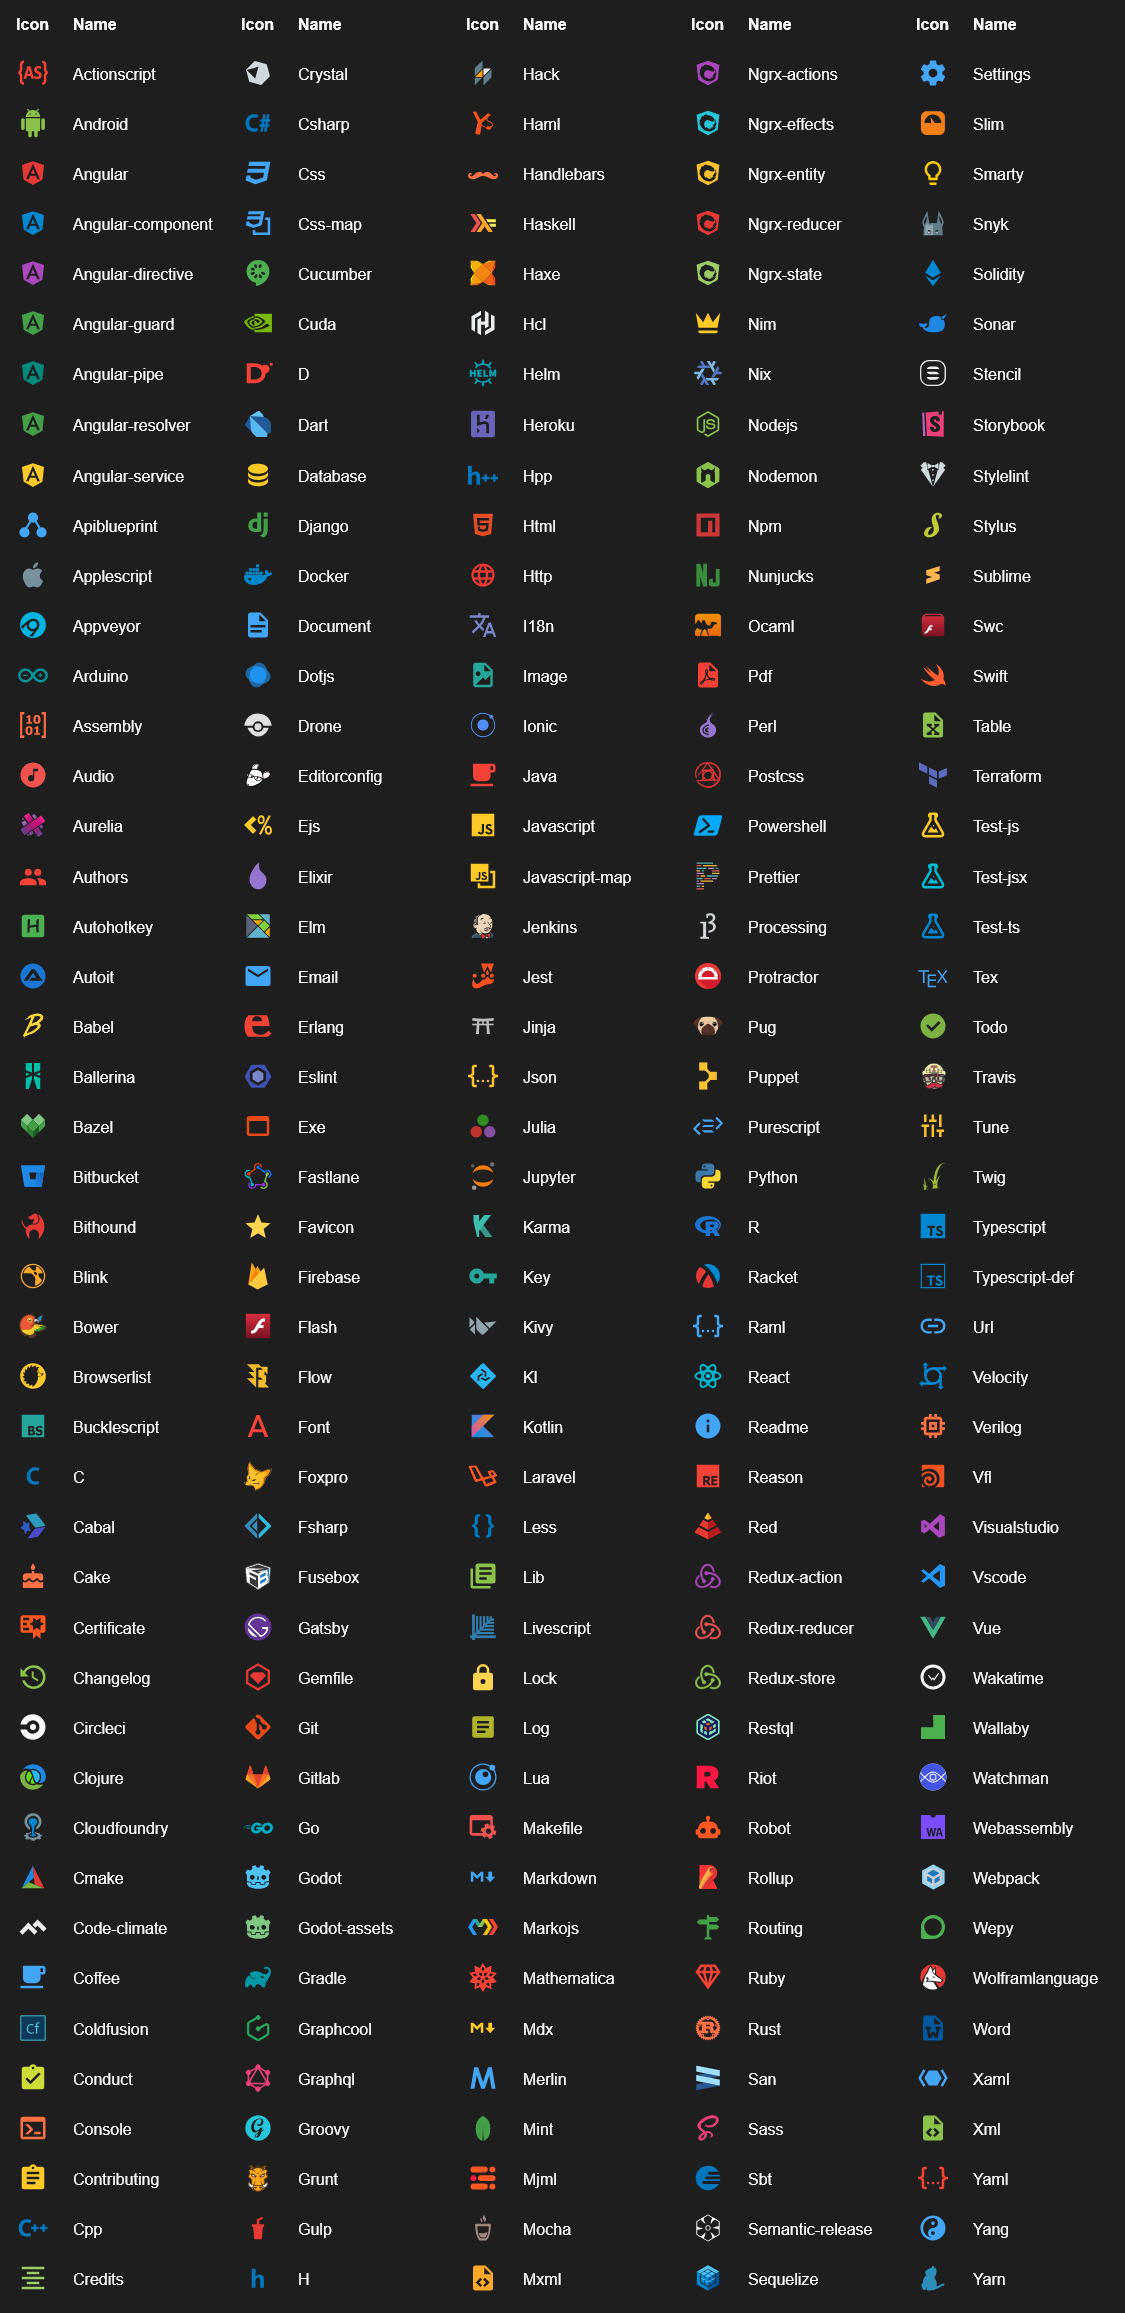
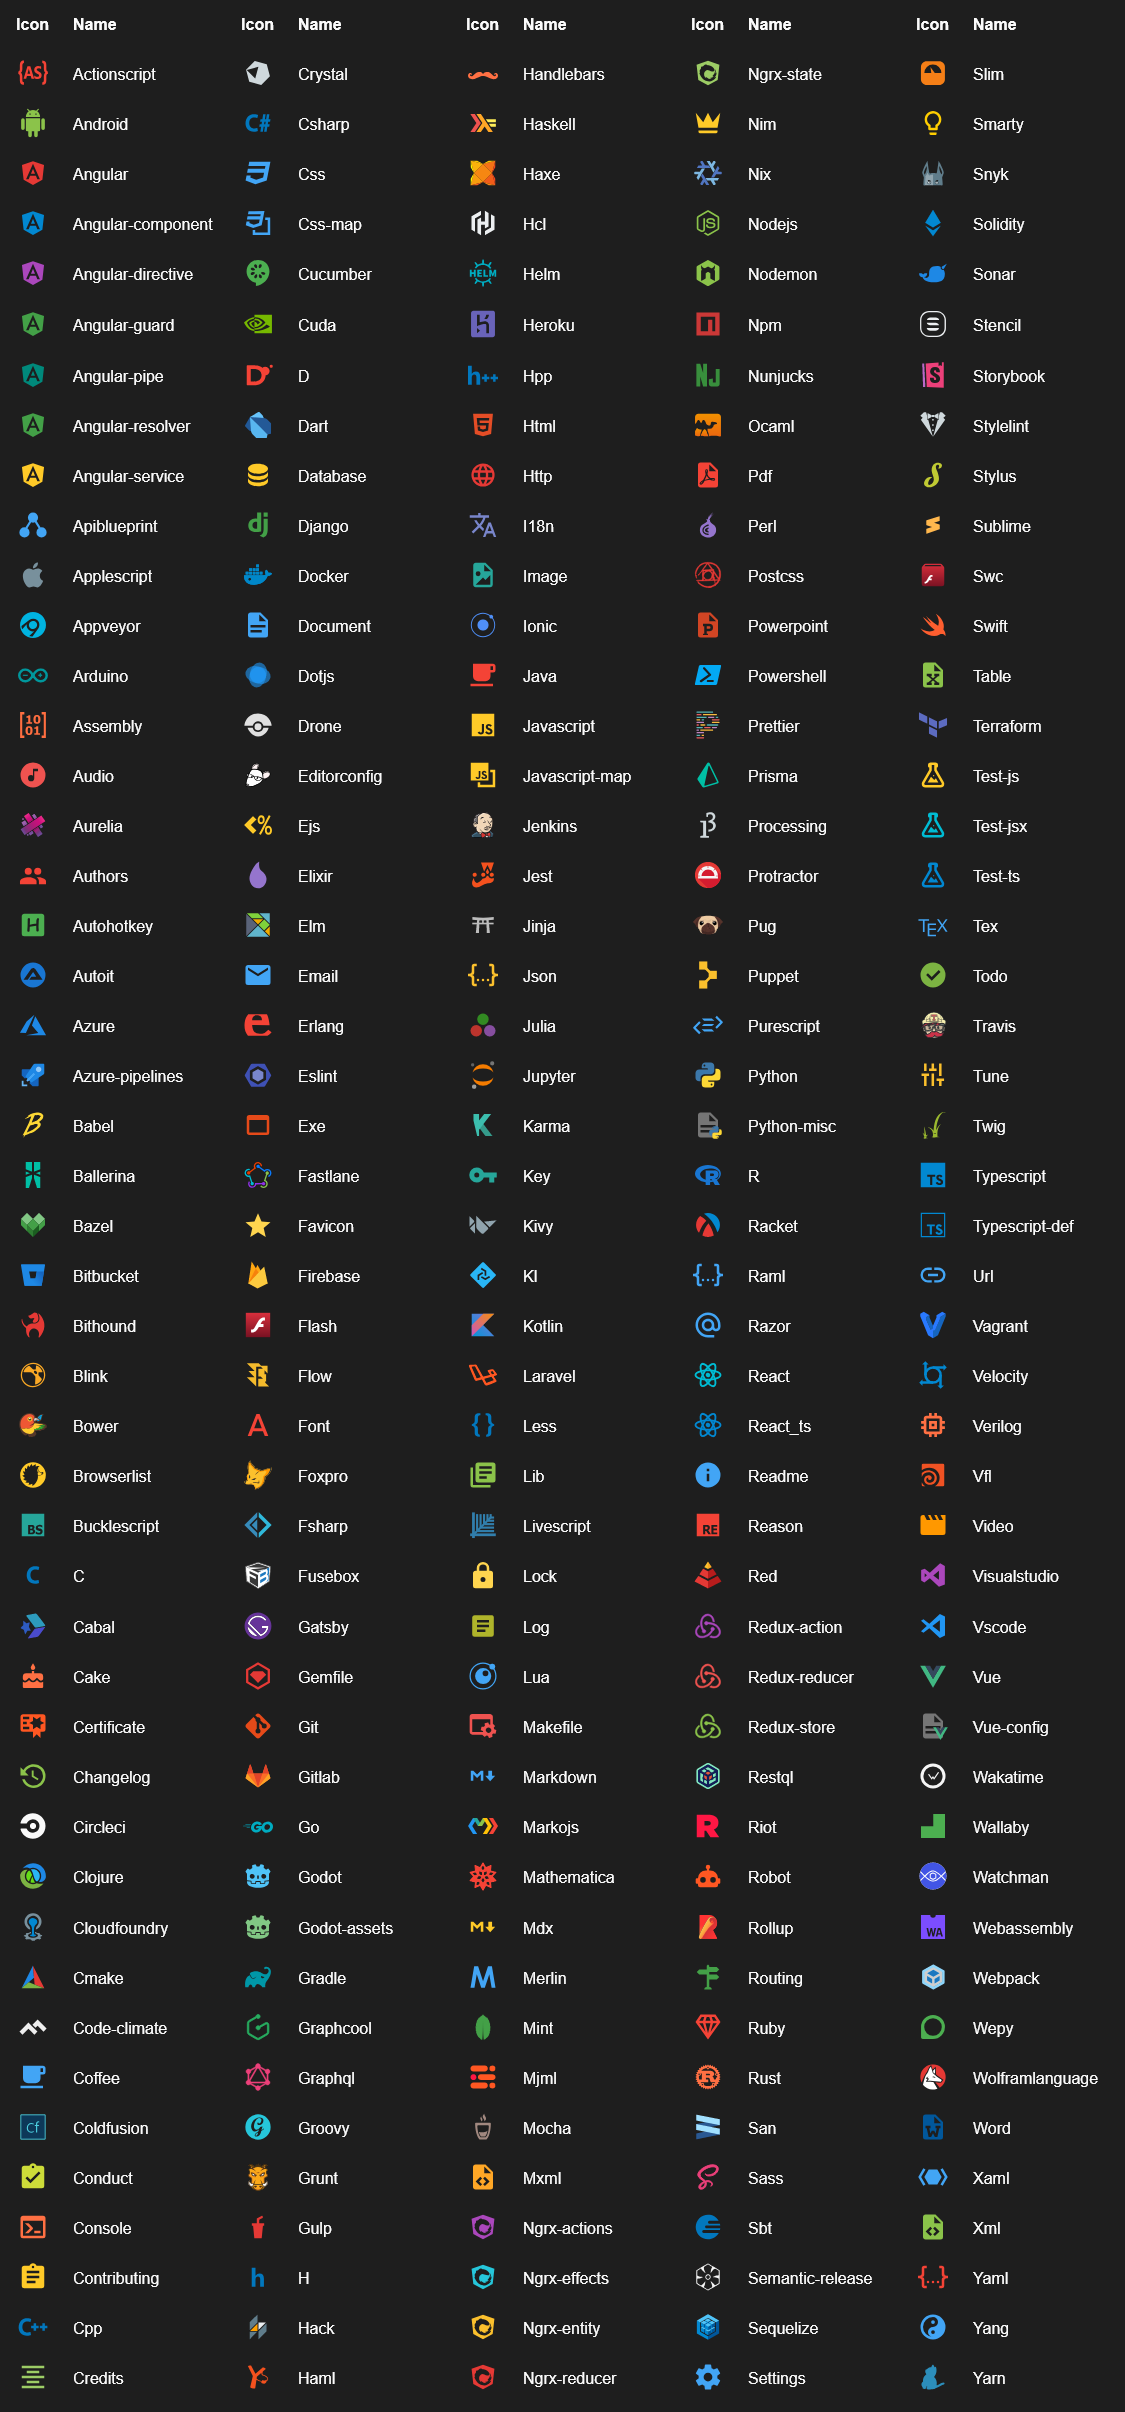
Release 3.6.1

diff --git a/scripts/preview/index.ts b/scripts/preview/index.ts
@@ -20,5 +20,5 @@ const folderThemes = filterDuplicates(folderIcons.map(theme => {
     return [].concat(...folders);
 }).reduce((a, b) => a.concat(b))).map(i => ({ iconName: i, label: i.replace('folder-', '') }));
 
-generatePreview('fileIcons', basicFileIcons, 5, ['virtual', 'video', 'powerpoint']);
+generatePreview('fileIcons', basicFileIcons, 5, ['virtual']);
 generatePreview('folderIcons', folderThemes, 5, ['folder', 'folder-ansible', 'folder-expo']);

diff --git a/CHANGELOG.md b/CHANGELOG.md
@@ -1,4 +1,27 @@
 # Changelog
+## 3.6.1 (2018-11-21)
+### New file icons
+- .env ([issue #261](https://github.com/PKief/vscode-material-icon-theme/issues/261))
+- azure-pipelines.yml ([issue #321](https://github.com/PKief/vscode-material-icon-theme/issues/321))
+- docker compose aliases ([@AdrieanKhisbe](https://github.com/AdrieanKhisbe) in [#343](https://github.com/PKief/vscode-material-icon-theme/pull/343))
+- docker-compose.staging.yml ([@mintapp](https://github.com/mintapp) in [#333](https://github.com/PKief/vscode-material-icon-theme/pull/333))
+- Prisma ([@diego3g](https://github.com/diego3g) in [#320](https://github.com/PKief/vscode-material-icon-theme/pull/320))
+- Procfile.windows ([@aashutoshrathi](https://github.com/aashutoshrathi) in [#326](https://github.com/PKief/vscode-material-icon-theme/pull/326))
+- python-file ([@AdrieanKhisbe](https://github.com/AdrieanKhisbe) in [#340](https://github.com/PKief/vscode-material-icon-theme/pull/340))
+- tsx ([@felipe-fg](https://github.com/felipe-fg) in [#332](https://github.com/PKief/vscode-material-icon-theme/pull/332))
+- Vagrantfile ([@khrystuk](https://github.com/khrystuk) in [#327](https://github.com/PKief/vscode-material-icon-theme/pull/327))
+- Visual Studio C++ configuration files & .clang-tidy ([@Farwaykorse](https://github.com/Farwaykorse) in [#347](https://github.com/PKief/vscode-material-icon-theme/pull/347))
+- vue.config.js ([@schoening](https://github.com/schoening) in [#335](https://github.com/PKief/vscode-material-icon-theme/pull/335))
+
+### New folder icons
+- @types, typings ([@eyal0803](https://github.com/eyal0803) in [#337](https://github.com/PKief/vscode-material-icon-theme/pull/337))
+- middleware ([@felipe-fg](https://github.com/felipe-fg) in [#331](https://github.com/PKief/vscode-material-icon-theme/pull/331))
+- api, app, archive, batch, cluster, command, constant, container, content, core, delta, dump, environment, examples, functions, generated, hook, job, keys, layout, mail, mappings, meta, packages, serverless, shared, stack, template, utils ([@AdrieanKhisbe](https://github.com/AdrieanKhisbe) in [#339](https://github.com/PKief/vscode-material-icon-theme/pull/339))
+
+### Updated icons
+- PowerShell
+- Razor
+
 ## 3.6.0 (2018-09-10)
 ### New icons
 - authors ([@danielbankhead](https://github.com/danielbankhead) in [#306](https://github.com/PKief/vscode-material-icon-theme/pull/306))
